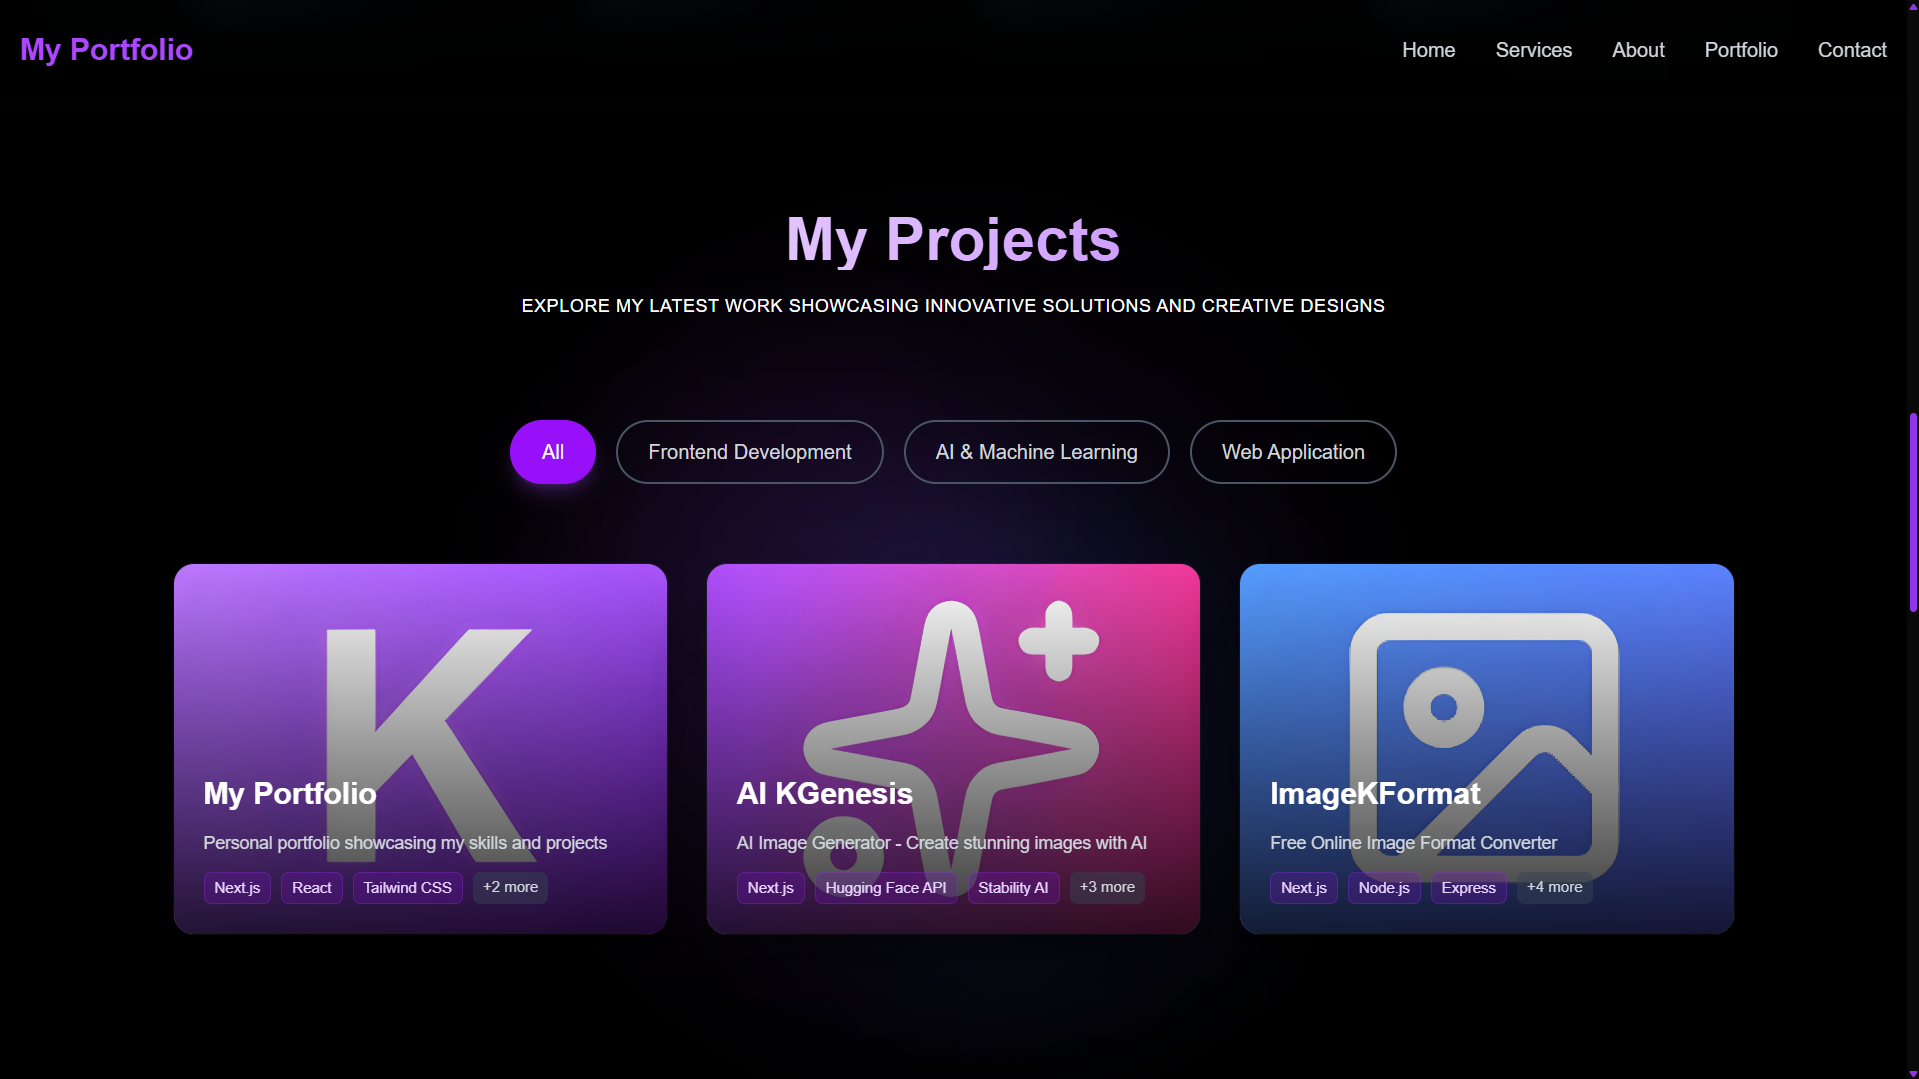
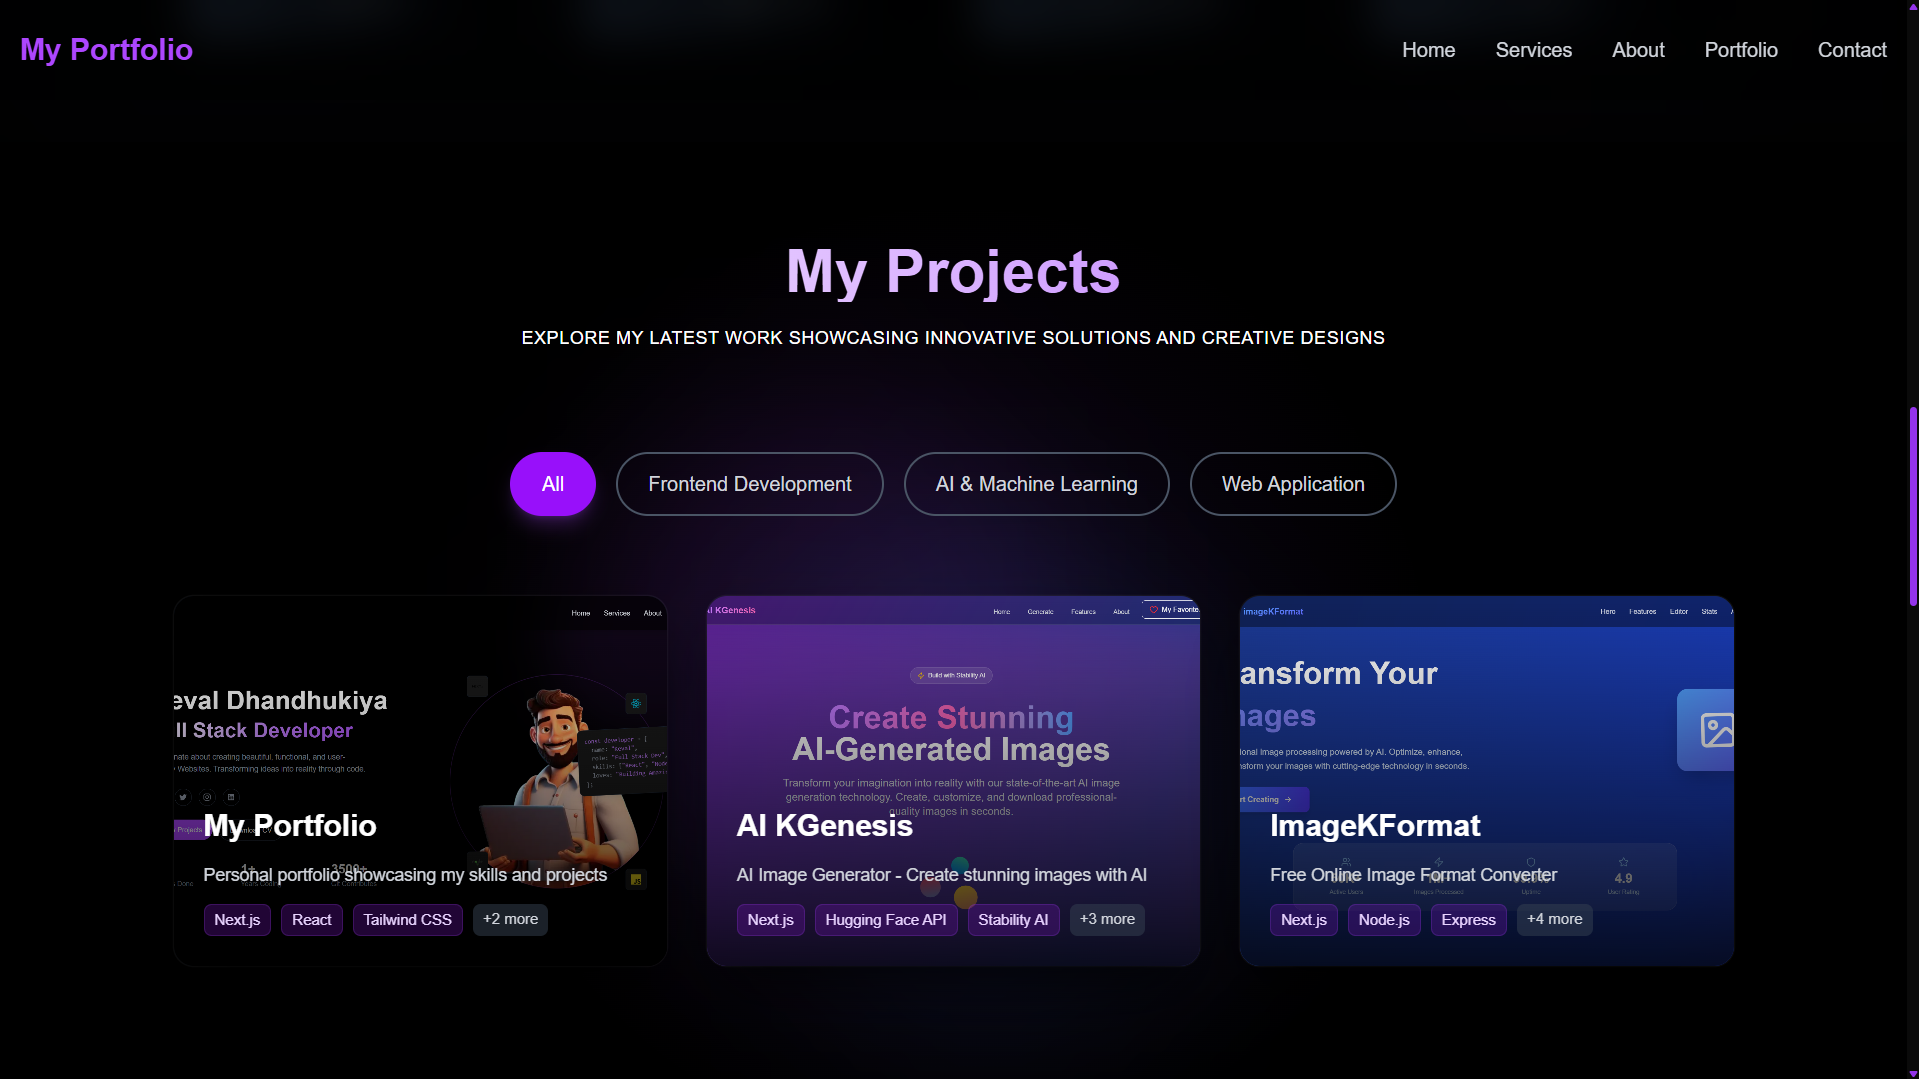
Upload whole module designs

Changed region(s): [[0.0922, 0.5199, 0.9224, 0.9175], [0.2767, 0.1835, 0.7379, 0.3364], [0.246, 0.367, 0.7379, 0.4893]]

diff --git a/src/app/components/Footer.jsx b/src/app/components/Footer.jsx
@@ -1,89 +1,92 @@
+"use client";
 import Link from "next/link";
 import { Icon } from "@iconify/react";
+import { motion } from "framer-motion";
+import { handleScroll } from "./Header";
 
 const Footer = () => {
+  const socialLinks = [
+    { icon: "mdi:github", href: "https://github.com/dkeval08" },
+    { icon: "mdi:twitter", href: "https://x.com/GamerboyA65016" },
+    {
+      icon: "mdi:instagram",
+      href: "https://www.instagram.com/keval_prajapati475/",
+    },
+    {
+      icon: "mdi:linkedin",
+      href: "https://www.linkedin.com/in/keval-dhandhukiya-6aaa1329a/",
+    },
+  ];
+
+  const menuItems = [
+    { title: "Home", href: "#home", id: "home" },
+    { title: "Skills", href: "#Skills", id: "Skills" },
+    { title: "Projects", href: "#Projects", id: "Projects" },
+    { title: "About", href: "#about", id: "about" },
+    { title: "Contact", href: "#contact", id: "contact" },
+  ];
+
   return (
     <footer className="w-full bg-[#111111] text-white py-12">
       <div className="container mx-auto px-4">
         <div className="flex flex-col items-center space-y-8">
           {/* Logo */}
-          <div className="text-purple-500 text-2xl font-bold">LOGO</div>
-
+          <motion.div
+            initial={{ opacity: 0 }}
+            animate={{ opacity: 1 }}
+            transition={{ delay: 0.2 }}
+            className="text-2xl flex items-center gap-1 font-bold text-purple-500"
+          >
+            My Portfolio
+          </motion.div>
           {/* Navigation Links */}
-          <nav className="flex flex-wrap justify-center gap-8 text-gray-400">
-            <Link href="/" className="hover:text-white transition-colors">
-              Home
-            </Link>
-            <Link
-              href="/services"
-              className="hover:text-white transition-colors"
-            >
-              Services
-            </Link>
-            <Link href="/about" className="hover:text-white transition-colors">
-              About me
-            </Link>
-            <Link
-              href="/portfolio"
-              className="hover:text-white transition-colors"
-            >
-              Portfolio
-            </Link>
-            <Link
-              href="/contact"
-              className="hover:text-white transition-colors"
-            >
-              Contact me
-            </Link>
+          <nav className="hidden md:flex items-center space-x-8">
+            {menuItems.map((item, index) => (
+              <motion.div
+                key={index}
+                initial={{ opacity: 0, y: -20 }}
+                animate={{ opacity: 1, y: 0 }}
+                transition={{ delay: index * 0.1 + 0.3 }}
+              >
+                <a
+                  href={item.href}
+                  onClick={(e) => handleScroll(e, item.id)}
+                  className="text-gray-300 hover:text-white transition-colors cursor-pointer"
+                >
+                  {item.title}
+                </a>
+              </motion.div>
+            ))}
           </nav>
 
           {/* Social Media Icons */}
-          <div className="flex gap-6">
-            <a
-              href="https://www.instagram.com/keval_prajapati475/"
-              target="_blank"
-              rel="noopener noreferrer"
-              className="text-gray-400 hover:text-white transition-colors"
-            >
-              <Icon icon="mdi:instagram" className="w-6 h-6" />
-            </a>
-            <a
-              href="https://www.linkedin.com/in/Keval-Dhandhukiya-6ab24024a/"
-              target="_blank"
-              rel="noopener noreferrer"
-              className="text-gray-400 hover:text-white transition-colors"
-            >
-              <Icon icon="mdi:linkedin" className="w-6 h-6" />
-            </a>
-            <a
-              href="https://dribbble.com/KevalDhandhukiya12"
-              target="_blank"
-              rel="noopener noreferrer"
-              className="text-gray-400 hover:text-white transition-colors"
-            >
-              <Icon icon="mdi:dribbble" className="w-6 h-6" />
-            </a>
-            <a
-              href="https://www.behance.net/KevalDhandhukiya"
-              target="_blank"
-              rel="noopener noreferrer"
-              className="text-gray-400 hover:text-white transition-colors"
-            >
-              <Icon icon="mdi:behance" className="w-6 h-6" />
-            </a>
+
+          <div className="flex gap-4 lg:items-start items-center lg:justify-start justify-center mb-8">
+            {socialLinks.map((link, index) => (
+              <motion.a
+                key={index}
+                href={link.href}
+                initial={{ opacity: 0, y: 20 }}
+                animate={{ opacity: 1, y: 0 }}
+                transition={{ delay: 0.7 + index * 0.1 }}
+                className="w-10 h-10 rounded-full border border-gray-700 flex items-center justify-center text-gray-400 hover:text-white hover:border-white transition-colors"
+              >
+                <Icon icon={link.icon} className="w-5 h-5" />
+              </motion.a>
+            ))}
           </div>
 
           {/* Contact Information */}
           <div className="flex flex-col sm:flex-row items-center gap-4 text-gray-400">
             <div className="flex items-center gap-2">
               <Icon icon="mdi:email-outline" className="w-5 h-5" />
-              <a href="mailto:KevalDhandhukiya2@gmail.com">
-                KevalDhandhukiya2@gmail.com
+              <a href="mailto:keval.dhandhukiya242@gmail.com">
+                keval.dhandhukiya242@gmail.com
               </a>
             </div>
             <div className="flex items-center gap-2">
               <Icon icon="mdi:phone-outline" className="w-5 h-5" />
-              <span>+91 70416 52801</span>
+              <span>+91 7990471362</span>
             </div>
           </div>
         </div>

diff --git a/src/app/components/Contact.jsx b/src/app/components/Contact.jsx
@@ -1,5 +1,5 @@
 "use client";
-import { motion } from "framer-motion";
+import { motion, AnimatePresence } from "framer-motion";
 import { useState } from "react";
 
 const Contact = () => {
@@ -9,6 +9,14 @@ const Contact = () => {
     phone: "",
     message: "",
   });
+  const [status, setStatus] = useState("idle");
+
+  const handleClick = () => {
+    setStatus("sending");
+    setTimeout(() => {
+      setStatus("success");
+    }, 3000);
+  };
 
   const handleSubmit = (e) => {
     e.preventDefault();
@@ -129,12 +137,68 @@ const Contact = () => {
               viewport={{ once: true }}
               className="text-right"
             >
-              <button
-                type="submit"
-                className="bg-purple-500 text-white px-8 py-3 rounded-lg hover:bg-purple-600 transition-colors"
+              <motion.button
+                type="button"
+                onClick={handleClick}
+                whileTap={{ scale: 0.95 }}
+                animate={
+                  status === "sending"
+                    ? {
+                        scale: [1, 1.08, 1],
+                        rotate: [0, 2, -2, 0],
+                        boxShadow: [
+                          "0 0 0px rgba(59,130,246,0.5)",
+                          "0 0 15px rgba(59,130,246,0.8)",
+                          "0 0 25px rgba(59,130,246,1)",
+                          "0 0 15px rgba(59,130,246,0.8)",
+                          "0 0 0px rgba(59,130,246,0.5)",
+                        ],
+                        transition: {
+                          repeat: Infinity,
+                          duration: 1.2,
+                          ease: "easeInOut",
+                        },
+                      }
+                    : status === "success"
+                    ? {
+                        scale: [1, 1.15, 1],
+                        boxShadow: [
+                          "0 0 0px rgba(34,197,94,0.5)",
+                          "0 0 20px rgba(34,197,94,0.8)",
+                          "0 0 35px rgba(34,197,94,1)",
+                          "0 0 20px rgba(34,197,94,0.8)",
+                          "0 0 0px rgba(34,197,94,0.5)",
+                        ],
+                        transition: { duration: 1, ease: "easeOut" },
+                      }
+                    : { scale: 1 }
+                }
+                className={`relative overflow-hidden px-8 w-[200px] py-3 rounded-lg text-white font-medium transition-colors duration-500
+                ${
+                  status === "idle"
+                    ? "bg-purple-500 hover:bg-purple-600"
+                    : status === "sending"
+                    ? "bg-gradient-to-r from-blue-500 to-blue-700"
+                    : "bg-gradient-to-r from-green-500 to-green-700"
+                }`}
               >
-                Send
-              </button>
+                <AnimatePresence mode="wait">
+                  <motion.span
+                    key={status}
+                    initial={{ opacity: 0, y: 10 }}
+                    animate={{ opacity: 1, y: 0 }}
+                    exit={{ opacity: 0, y: -10 }}
+                    transition={{ duration: 0.3 }}
+                    className="inline-block"
+                  >
+                    {status === "idle"
+                      ? "Send"
+                      : status === "sending"
+                      ? "Sending..."
+                      : "Send Successful"}
+                  </motion.span>
+                </AnimatePresence>
+              </motion.button>
             </motion.div>
           </form>
         </motion.div>

diff --git a/src/app/components/Projects.jsx b/src/app/components/Projects.jsx
@@ -25,7 +25,7 @@ const projects = [
     shortDescription: "Personal portfolio showcasing my skills and projects",
     description:
       "A modern, responsive portfolio website built with Next.js and React, featuring smooth animations, dark theme design, and showcasing my development skills and projects. The site includes interactive elements, project galleries, and contact functionality.",
-    image: "/logo.png",
+    image: "/portfolio-1.png",
     images: [
       "/portfolio-1.png",
       "/portfolio-2.png",
@@ -68,7 +68,7 @@ const projects = [
     shortDescription: "AI Image Generator - Create stunning images with AI",
     description:
       "Create, save, and share stunning AI-generated images instantly. No login required – simple, fast, and creative. Built with cutting-edge AI models for high-quality image generation.",
-    image: "/ai-k-genesis-logo.png",
+    image: "/ai-k-genesis-1.png",
     images: [
       "/ai-k-genesis-1.png",
       "/ai-k-genesis-2.png",
@@ -118,7 +118,7 @@ const projects = [
     shortDescription: "Free Online Image Format Converter",
     description:
       "Convert images between formats instantly. Support for JPEG, PNG, WebP, AVIF, and more. Fast, secure, and completely free image conversion tool with advanced AI-powered features.",
-    image: "/image-k-format-logo.png",
+    image: "/image-k-format-1.png",
     images: [
       "/image-k-format-1.png",
       "/image-k-format-2.png",
@@ -195,7 +195,7 @@ const ProjectCard = ({ project, index, onProjectClick }) => {
         transition: { duration: 0.3 },
       }}
       onClick={() => onProjectClick(project)}
-      className="group relative aspect-[4/3] bg-gradient-to-br from-gray-900 via-gray-800 to-black rounded-2xl overflow-hidden cursor-pointer transform-gpu perspective-1000"
+      className="group relative  aspect-[4/3] bg-gradient-to-br from-gray-900 via-gray-800 to-black rounded-2xl overflow-hidden cursor-pointer transform-gpu perspective-1000"
       style={{
         transformStyle: "preserve-3d",
         boxShadow:
@@ -207,7 +207,7 @@ const ProjectCard = ({ project, index, onProjectClick }) => {
         <motion.img
           src={project.image}
           alt={project.title}
-          className="w-full h-full scale-110 object-cover"
+          className="w-full h-full object-cover"
           whileHover={{ scale: 1.1 }}
           transition={{ duration: 0.6, ease: "easeOut" }}
         />
@@ -514,7 +514,7 @@ const Projects = () => {
   return (
     <section
       ref={sectionRef}
-      id="portfolio"
+      id="Projects"
       className="relative bg-black py-20 mx-auto max-w-7xl overflow-hidden min-h-screen"
     >
       {/* Animated Background */}

diff --git a/src/app/components/Header.jsx b/src/app/components/Header.jsx
@@ -3,35 +3,27 @@ import { motion } from "framer-motion";
 import Link from "next/link";
 import { useState } from "react";
 
+export const handleScroll = (e, targetId) => {
+  e.preventDefault();
+  const element = document.getElementById(targetId);
+  if (element) {
+    const offset = 80; // Height of the fixed header
+    const elementPosition = element.getBoundingClientRect().top;
+    const offsetPosition = elementPosition + window.pageYOffset - offset;
+
+    window.scrollTo({
+      top: offsetPosition,
+      behavior: "smooth",
+    });
+  }
+};
+
 const Header = () => {
-  const [isScrolled, setIsScrolled] = useState(true);
-
-  // if (typeof window !== "undefined") {
-  //   window.addEventListener("scroll", () => {
-  //     setIsScrolled(window.scrollY > 20);
-  //   });
-  // }
-
-  const handleScroll = (e, targetId) => {
-    e.preventDefault();
-    const element = document.getElementById(targetId);
-    if (element) {
-      const offset = 80; // Height of the fixed header
-      const elementPosition = element.getBoundingClientRect().top;
-      const offsetPosition = elementPosition + window.pageYOffset - offset;
-
-      window.scrollTo({
-        top: offsetPosition,
-        behavior: "smooth",
-      });
-    }
-  };
-
   const menuItems = [
     { title: "Home", href: "#home", id: "home" },
-    { title: "Services", href: "#services", id: "services" },
+    { title: "Skills", href: "#Skills", id: "Skills" },
+    { title: "Projects", href: "#Projects", id: "Projects" },
     { title: "About", href: "#about", id: "about" },
-    { title: "Portfolio", href: "#portfolio", id: "portfolio" },
     { title: "Contact", href: "#contact", id: "contact" },
   ];
 

diff --git a/src/app/components/About.jsx b/src/app/components/About.jsx
@@ -191,7 +191,7 @@ export const About = () => {
                   <motion.div
                     initial={{ opacity: 0, y: 20 }}
                     whileInView={{ opacity: 1, y: 0 }}
-                    transition={{ delay: 0.5 }}
+                    transition={{ delay: 0 }}
                     className="absolute bottom-6 left-6 right-6"
                   >
                     <div className="bg-black/40 backdrop-blur-md rounded-xl p-4 border border-white/10">

diff --git a/src/app/components/Skills.jsx b/src/app/components/Skills.jsx
@@ -2,6 +2,7 @@
 import { motion, AnimatePresence } from "framer-motion";
 import { Icon } from "@iconify/react";
 import { useState } from "react";
+import { handleScroll } from "./Header";
 
 const skillsData = {
   frontend: [
@@ -143,7 +144,7 @@ export const Skills = () => {
 
   return (
     <section
-      id="skills"
+      id="Skills"
       className="relative bg-black min-h-screen py-20 overflow-hidden"
     >
       {/* Animated Background */}
